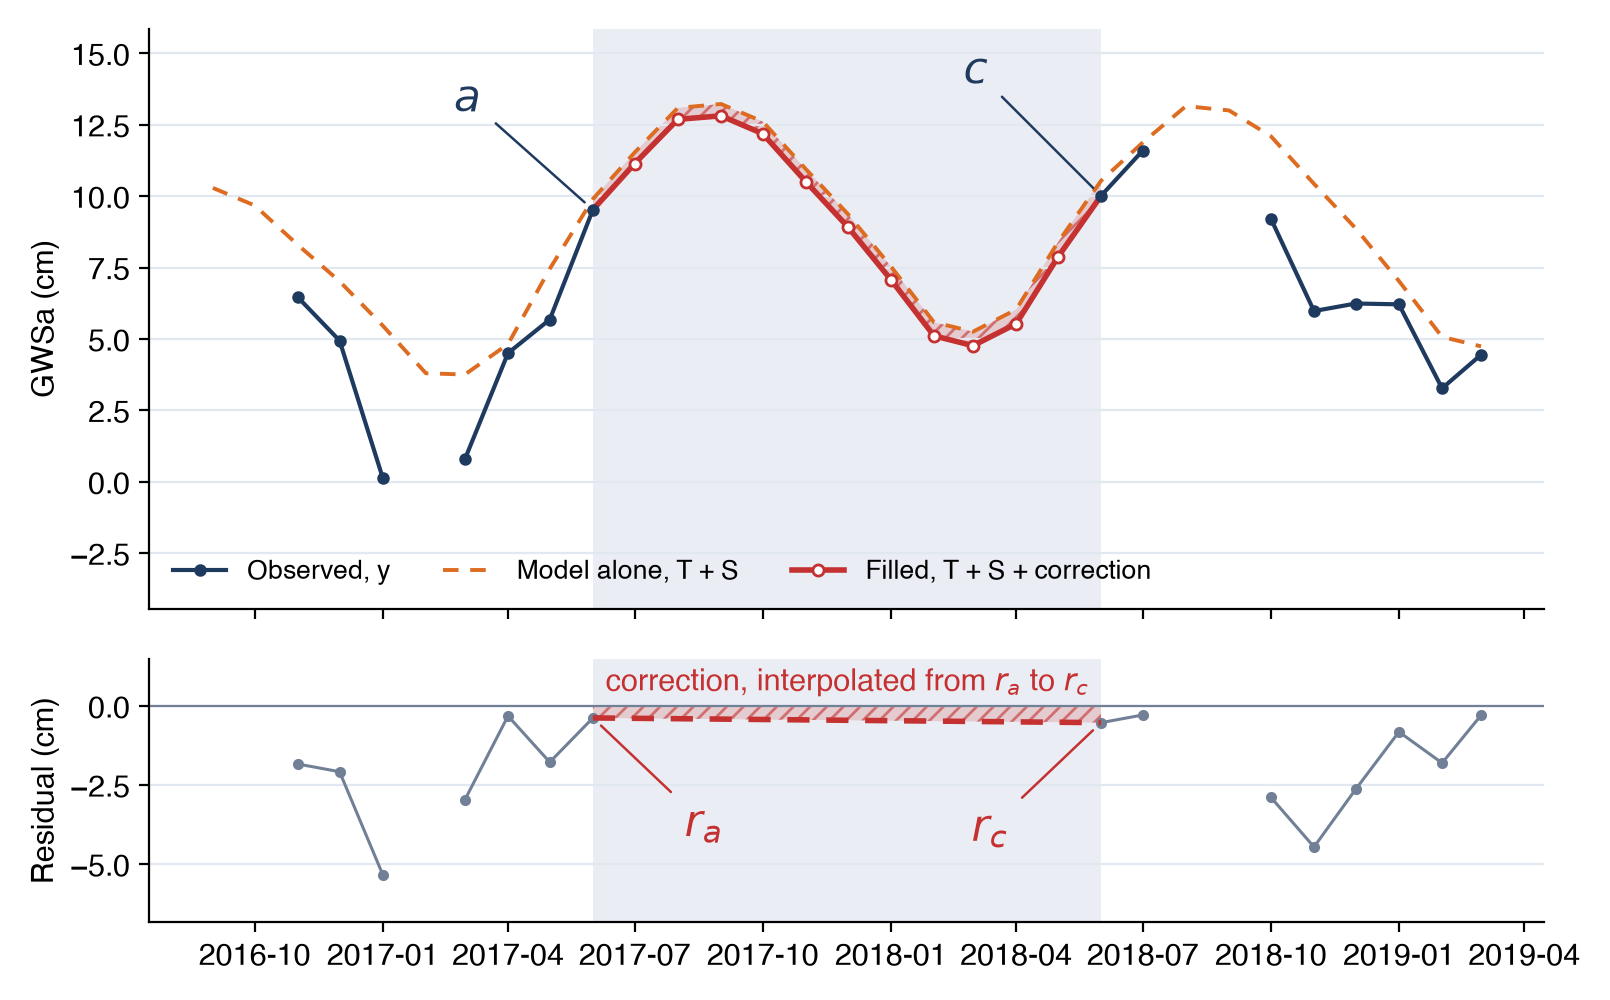
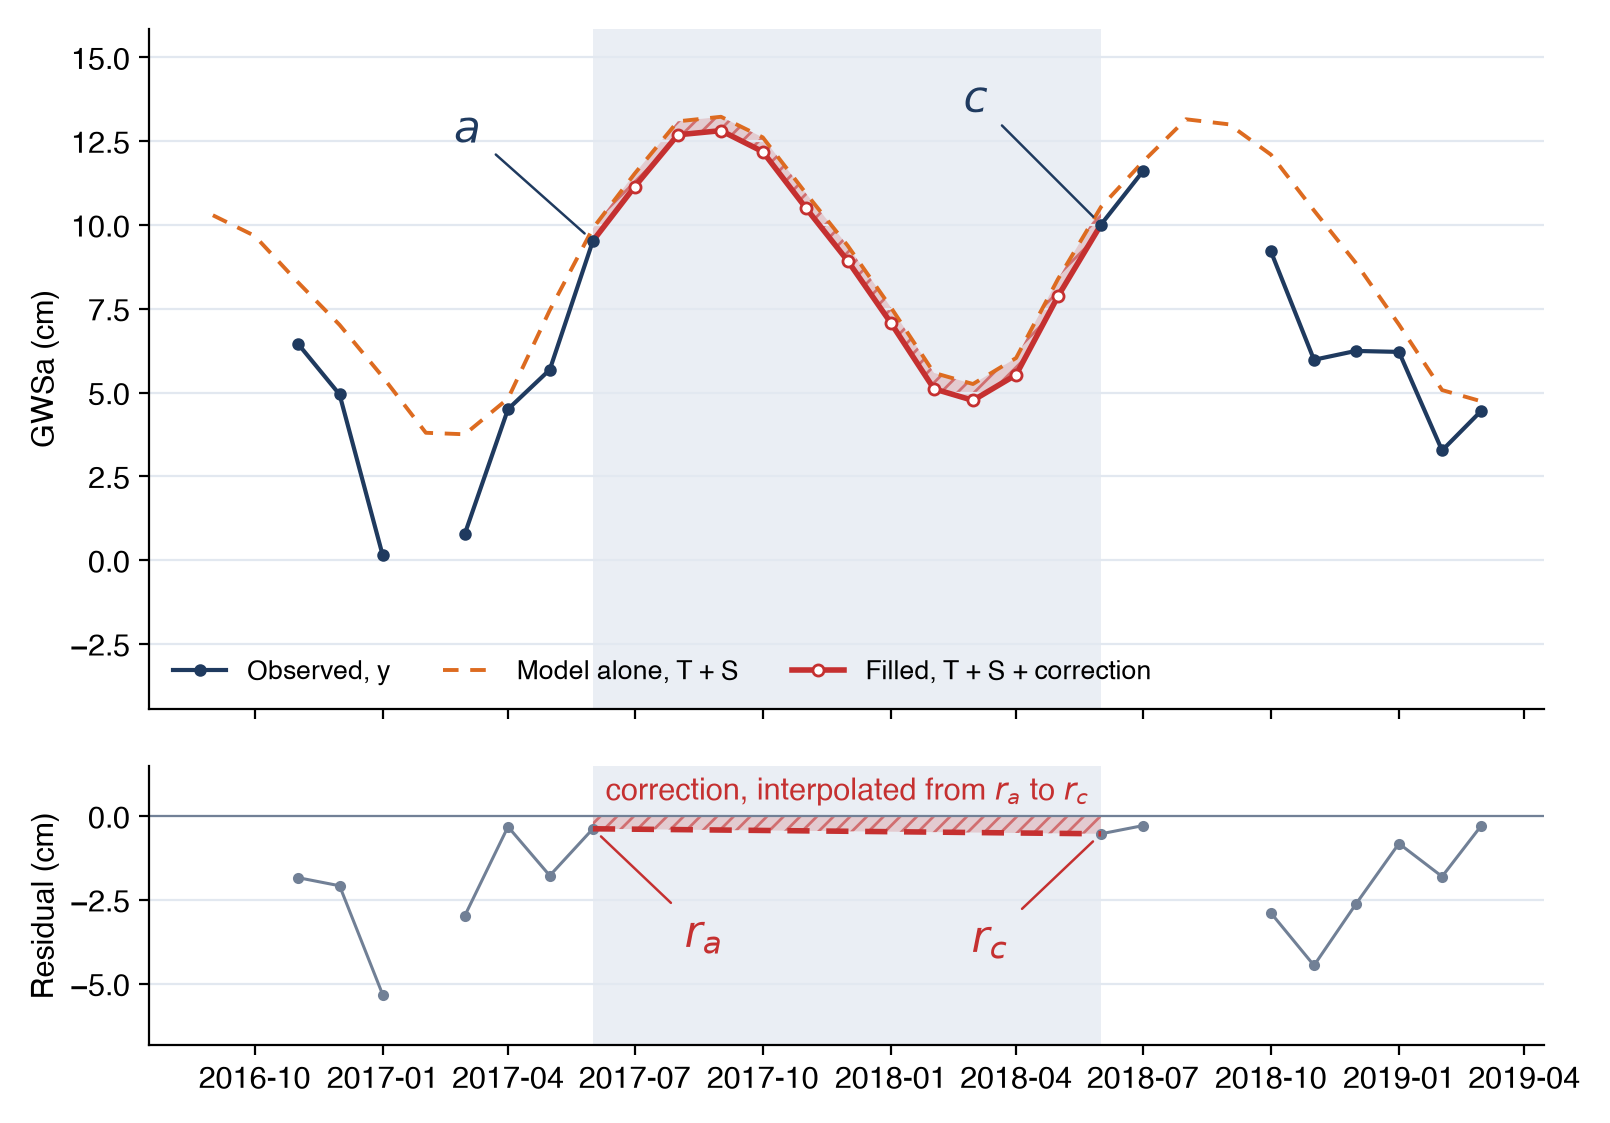
Draw both panels of the gap-correction figures at the same vertical scale
Panel heights follow their value ranges, so a centimeter is the same height in
the GWSa and residual panels and the two hatched areas match.

diff --git a/tools/grace-figures/seasonal_model.py b/tools/grace-figures/seasonal_model.py
@@ -218,8 +218,14 @@ def gap_figure(name, dates, observed, ts, resid, filled, a_date, c_date, start, 
     win = (dates >= start) & (dates <= end)
     a, c = np.flatnonzero(dates == a_date)[0], np.flatnonzero(dates == c_date)[0]
     r_line = np.interp(np.arange(a, c + 1), [a, c], [resid[a], resid[c]])
-    fig, (ax, axr) = plt.subplots(2, 1, figsize=(9, 5.8), dpi=200, sharex=True,
-                                  gridspec_kw=dict(height_ratios=[2.2, 1], hspace=0.12))
+    lo, hi = min(np.nanmin(observed[win]), ts[win].min()), max(np.nanmax(observed[win]), ts[win].max())
+    ylim = (lo - 0.35 * (hi - lo), hi + 0.2 * (hi - lo))
+    rlo, rhi = np.nanmin(resid[win]), np.nanmax(resid[win])
+    rlim = (rlo - 0.3 * (rhi - rlo), rhi + 0.35 * (rhi - rlo))
+    # panel heights in proportion to their ranges, so a centimeter is the same height in both and the two
+    # hatched areas match in size
+    fig, (ax, axr) = plt.subplots(2, 1, figsize=(9, 6.6), dpi=200, sharex=True,
+                                  gridspec_kw=dict(height_ratios=[ylim[1] - ylim[0], rlim[1] - rlim[0]], hspace=0.12))
     # shade from a to c, the observed months that bound the gap
     for x in (ax, axr):
         x.axvspan(dates[a], dates[c], color=C["lightgray"], alpha=0.7, lw=0)
@@ -238,18 +244,16 @@ def gap_figure(name, dates, observed, ts, resid, filled, a_date, c_date, start, 
     pointer(ax, "$a$", (dates[a], observed[a]), offsets["a"], C["navy"])
     pointer(ax, "$c$", (dates[c], observed[c]), offsets["c"], C["navy"])
     tidy(ax)
-    lo, hi = min(np.nanmin(observed[win]), ts[win].min()), max(np.nanmax(observed[win]), ts[win].max())
-    ax.set_ylim(lo - 0.35 * (hi - lo), hi + 0.2 * (hi - lo))
+    ax.set_ylim(*ylim)
     axr.axhline(0, color=C["gray"], lw=0.8)
     axr.plot(dates[win], resid[win], color=C["gray"], lw=1.1, marker="o", ms=3)
     axr.plot(dates[a:c + 1], r_line, color=C["red"], lw=2, ls=(0, (4, 3)))
     pointer(axr, "$r_a$", (dates[a], resid[a]), offsets["ra"], C["red"])
     pointer(axr, "$r_c$", (dates[c], resid[c]), offsets["rc"], C["red"])
-    rlo, rhi = np.nanmin(resid[win]), np.nanmax(resid[win])
     axr.text(dates[(a + c) // 2], rhi + 0.15 * (rhi - rlo), "correction, interpolated from $r_a$ to $r_c$", ha="center",
              fontsize=11, color=C["red"])
     axr.set_ylabel("Residual (cm)")
-    axr.set_ylim(rlo - 0.3 * (rhi - rlo), rhi + 0.35 * (rhi - rlo))
+    axr.set_ylim(*rlim)
     tidy(axr)
     fig.align_ylabels((ax, axr))
     fig.savefig(OUT / f"{name}.png", facecolor="white", bbox_inches="tight", pad_inches=0.15)
@@ -273,6 +277,6 @@ fill = cv_ts + pd.Series(r).interpolate().values
 assert np.allclose(fill[gap], cv.GWSa_filled[gap], atol=2e-3), "Central Valley refit differs from the app's fill"
 gap_figure("seasonal-gap-correction-cv", cv.Date.values, cv.GWSa.values, cv_ts, r, np.where(gap, fill, cv.GWSa.values),
            np.datetime64("2017-06-01"), np.datetime64("2018-06-01"), np.datetime64("2016-09-01"),
-           np.datetime64("2019-03-01"), dict(a=(45, 14), c=(-45, 40), ra=(40, -30), rc=(-50, -22)))
+           np.datetime64("2019-03-01"), dict(a=(45, 14), c=(-45, 40), ra=(30, -75), rc=(-50, -22)))
 
 print("breakpoints", [f"{b:%Y-%m}" for b in bp_dates], "BIC", [round(f["bic"], 1) for f in fits], "chosen", chosen)
